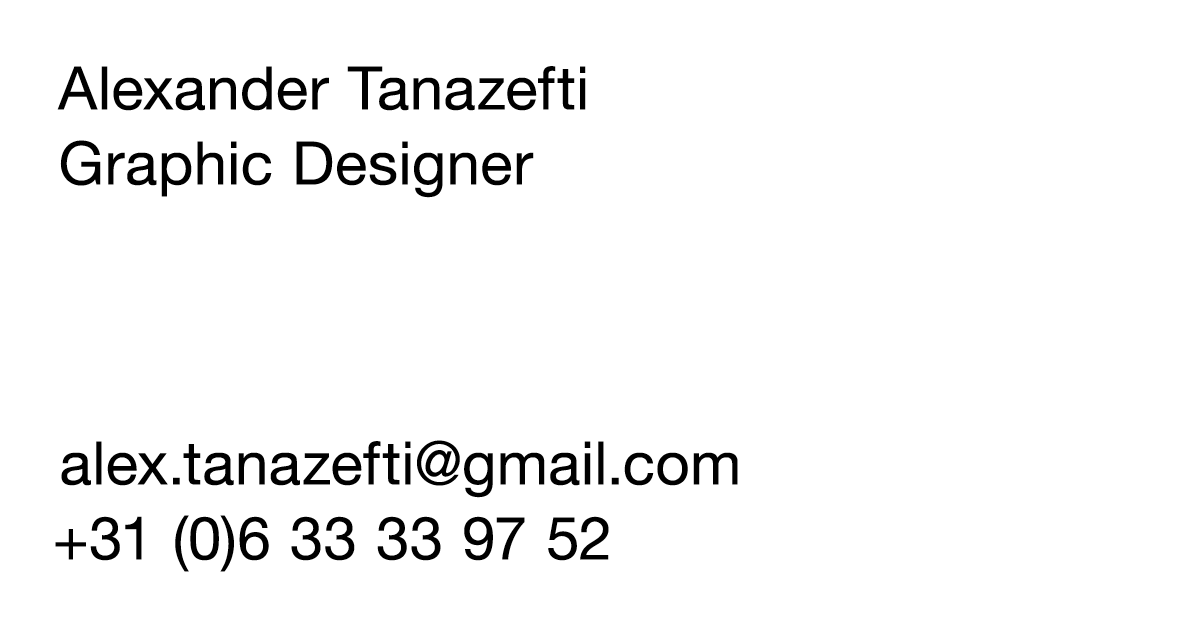
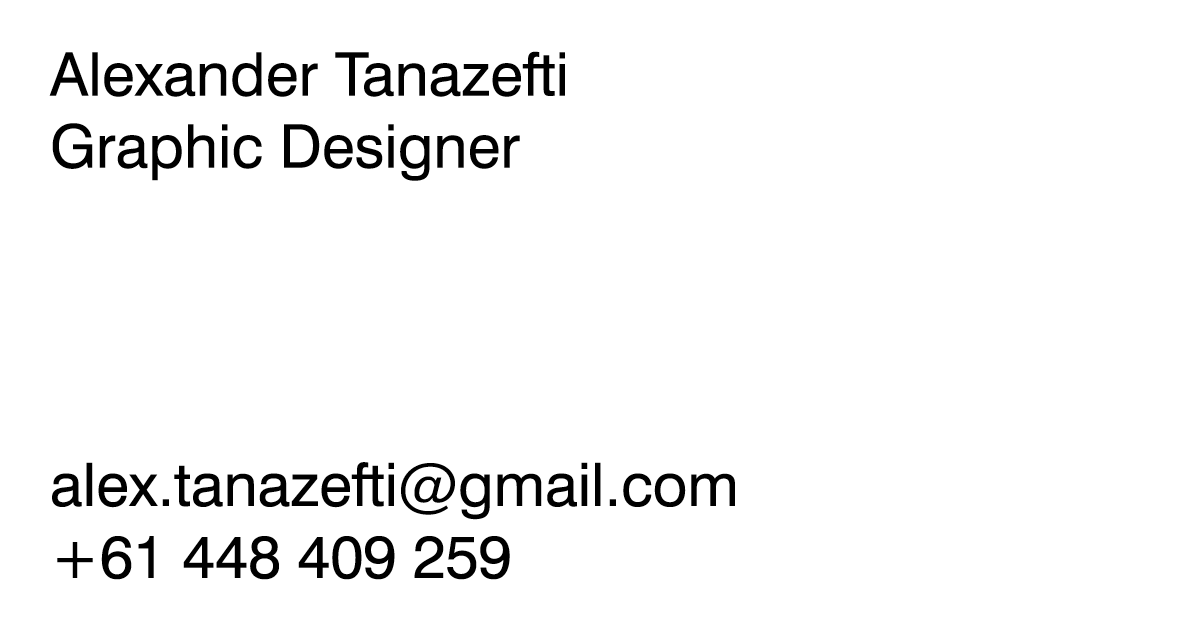
update bio and analytics

Changed region(s): [[0.0308, 0.6959, 0.6167, 0.9379], [0.0308, 0.0605, 0.4933, 0.3328]]

diff --git a/index.html b/index.html
@@ -4,10 +4,10 @@
   <meta name="viewport" content="width=device-width, height=device-height">
 
   <title>Alexander Tanazefti</title>
-  <meta name="description" content="Graphic designer, director at Pari, student at Werkplaats Typografie.">
+  <meta name="description" content="Graphic designer">
   <meta name="twitter:card" content="summary_large_image">
   <meta property="og:title" content="Alexander Tanazefti">
-  <meta property="og:description" content="Graphic designer, director at Pari, student at Werkplaats Typografie.">
+  <meta property="og:description" content="Graphic designer">
   <meta property="og:image" content="https://atanazefti.com/atanazefti.png">
   <meta property="og:type" content="website">
   <meta property="og:url" content="https://atanazefti.com">
@@ -20,11 +20,11 @@
 <body>
   <div class="about">
     <h1>Alexander Tanazefti</h1>
-    <p>Graphic designer, director at <a href="https://pariari.org" target="_blank">Pari</a>, student at <a href="https://www.werkplaatstypografie.org" target="_blank">Werkplaats Typografie</a>. Available for collaborations.</p>
+    <p>Graphic designer, director at <a href="https://pariari.org" target="_blank">Pari</a>, previously student at <a href="https://www.werkplaatstypografie.org" target="_blank">Werkplaats Typografie</a>. Available for collaborations.</p>
   </div>
   <div class="contact">
     <a href="mailto:alex.tanazefti@gmail.com" target="_blank">alex.tanazefti@gmail.com</a>
-    <!-- <br>+31 (0)6 33 33 97 52 -->
+    <br>+61 448 409 259
   </div>
 
   <script src="p5.min.js"></script>
@@ -37,5 +37,6 @@
     gtag('js', new Date());
     gtag('config', 'UA-53206163-1');
   </script>
+
 </body>
 </html>
